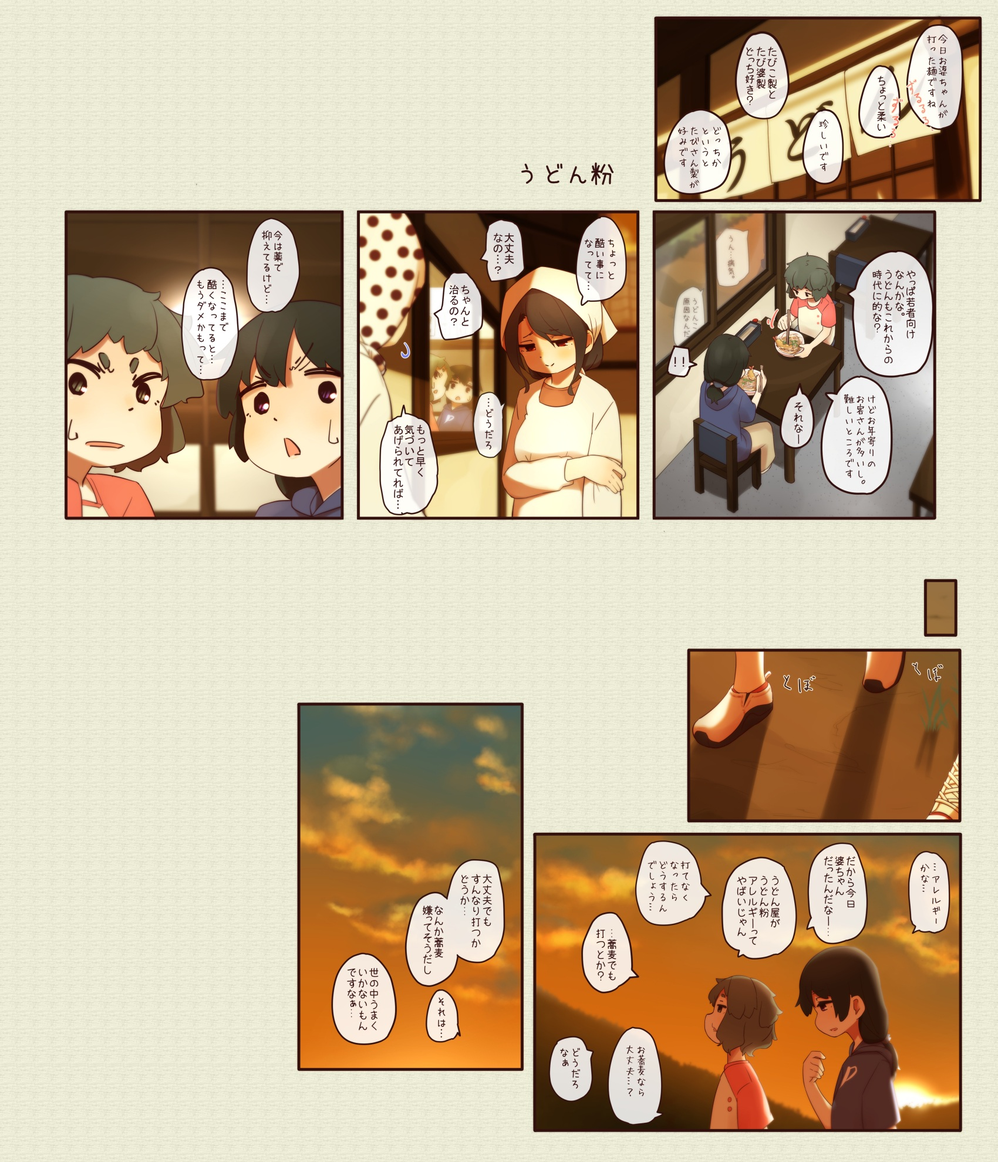
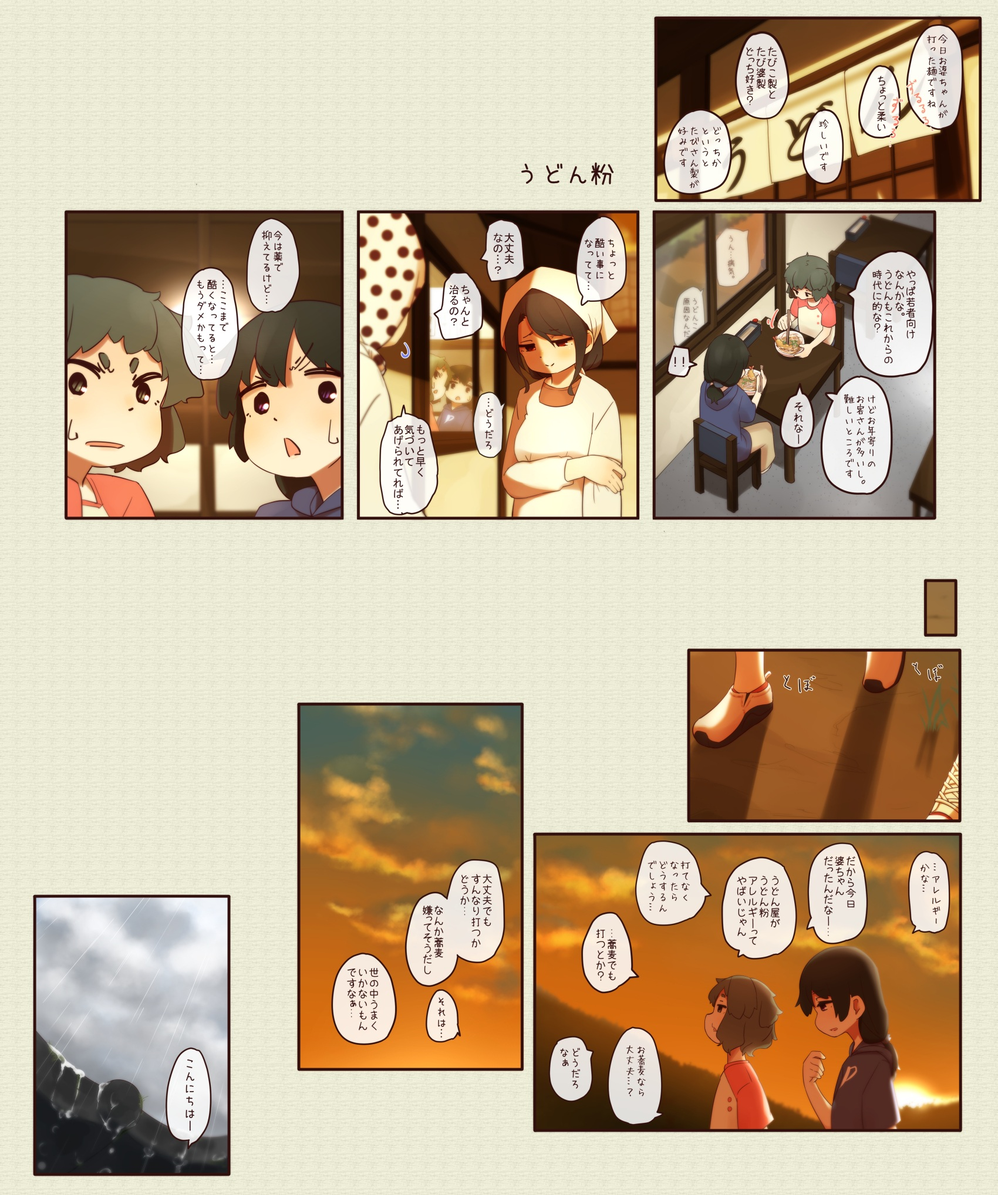
update: auto updated 4komaData by workflow

Changed region(s): [[0.0624, 0.0, 0.9976, 0.4621], [0.2806, 0.4621, 0.9665, 0.9859], [0.0312, 0.7394, 0.2494, 0.9859]]

diff --git a/4komaData.js b/4komaData.js
@@ -238,5 +238,5 @@ pageData = [
 ,{"Title": "こうたい", "ImagesUrl": ["https://mo4koma.iranika.info/4koma/ja/237-1.jpg", "https://mo4koma.iranika.info/4koma/ja/237-2.jpg", "https://mo4koma.iranika.info/4koma/ja/237-3.jpg", "https://mo4koma.iranika.info/4koma/ja/sp.jpg"]}
 ,{"Title": "けはい", "ImagesUrl": ["https://mo4koma.iranika.info/4koma/ja/238-1.jpg", "https://mo4koma.iranika.info/4koma/ja/238-2.jpg", "https://mo4koma.iranika.info/4koma/ja/238-3.jpg", "https://mo4koma.iranika.info/4koma/ja/sp.jpg"]}
 ,{"Title": "証明", "ImagesUrl": ["https://mo4koma.iranika.info/4koma/ja/239-1.jpg", "https://mo4koma.iranika.info/4koma/ja/239-2.jpg", "https://mo4koma.iranika.info/4koma/ja/239-3.jpg", "https://mo4koma.iranika.info/4koma/ja/sp.jpg"]}
-,{"Title": "うどん粉", "ImagesUrl": ["https://mo4koma.iranika.info/4koma/ja/240-1.jpg", "https://mo4koma.iranika.info/4koma/ja/sp.jpg"]}
+,{"Title": "うどん粉", "ImagesUrl": ["https://mo4koma.iranika.info/4koma/ja/240-1.jpg", "https://mo4koma.iranika.info/4koma/ja/240-2.jpg", "https://mo4koma.iranika.info/4koma/ja/sp.jpg"]}
 ]
